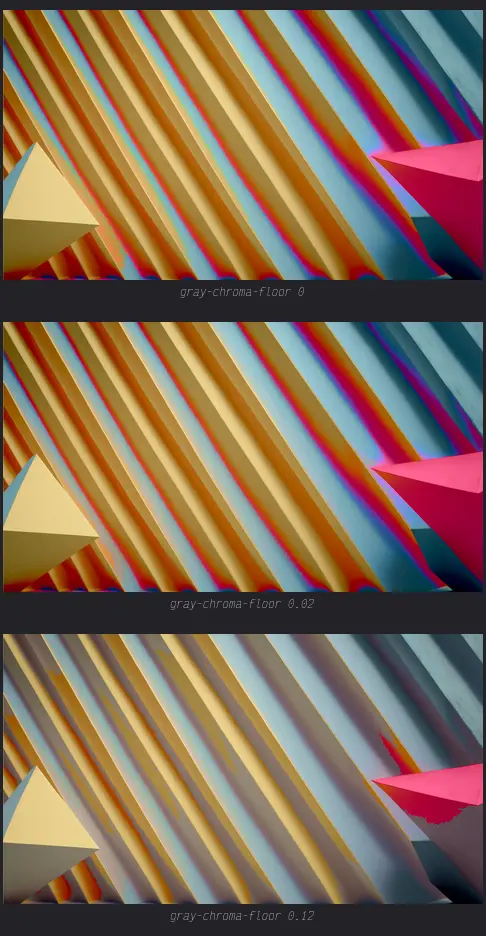
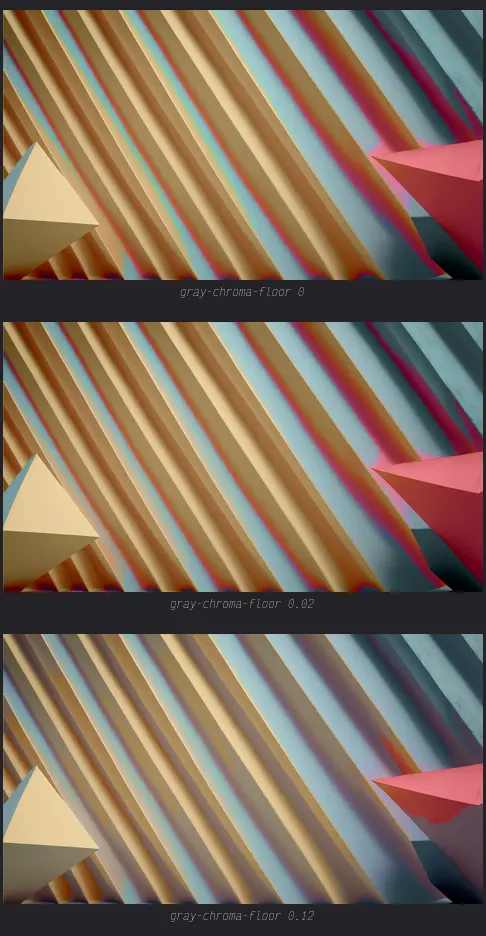
options: gruvbox-light as the map-wal demo scheme

diff --git a/OPTIONS.md b/OPTIONS.md
@@ -8,7 +8,7 @@ fixed demo subjects;
 Each flow has one demo stage, fixed for that section:
 
 - **map-wal** paints [bango-renders-3d-abstract](assets/bango-renders-3d-abstract.webp)
-  with Solarized Dark at `--harmonize 1` (the one-dial default:
+  with Gruvbox Light at `--harmonize 1` (the one-dial default:
   soft territory, reach 45, everything else stock). Per-option demos vary
   only the option named.
 - **map-scheme** paints Rosé Pine Dawn with the hue families of
